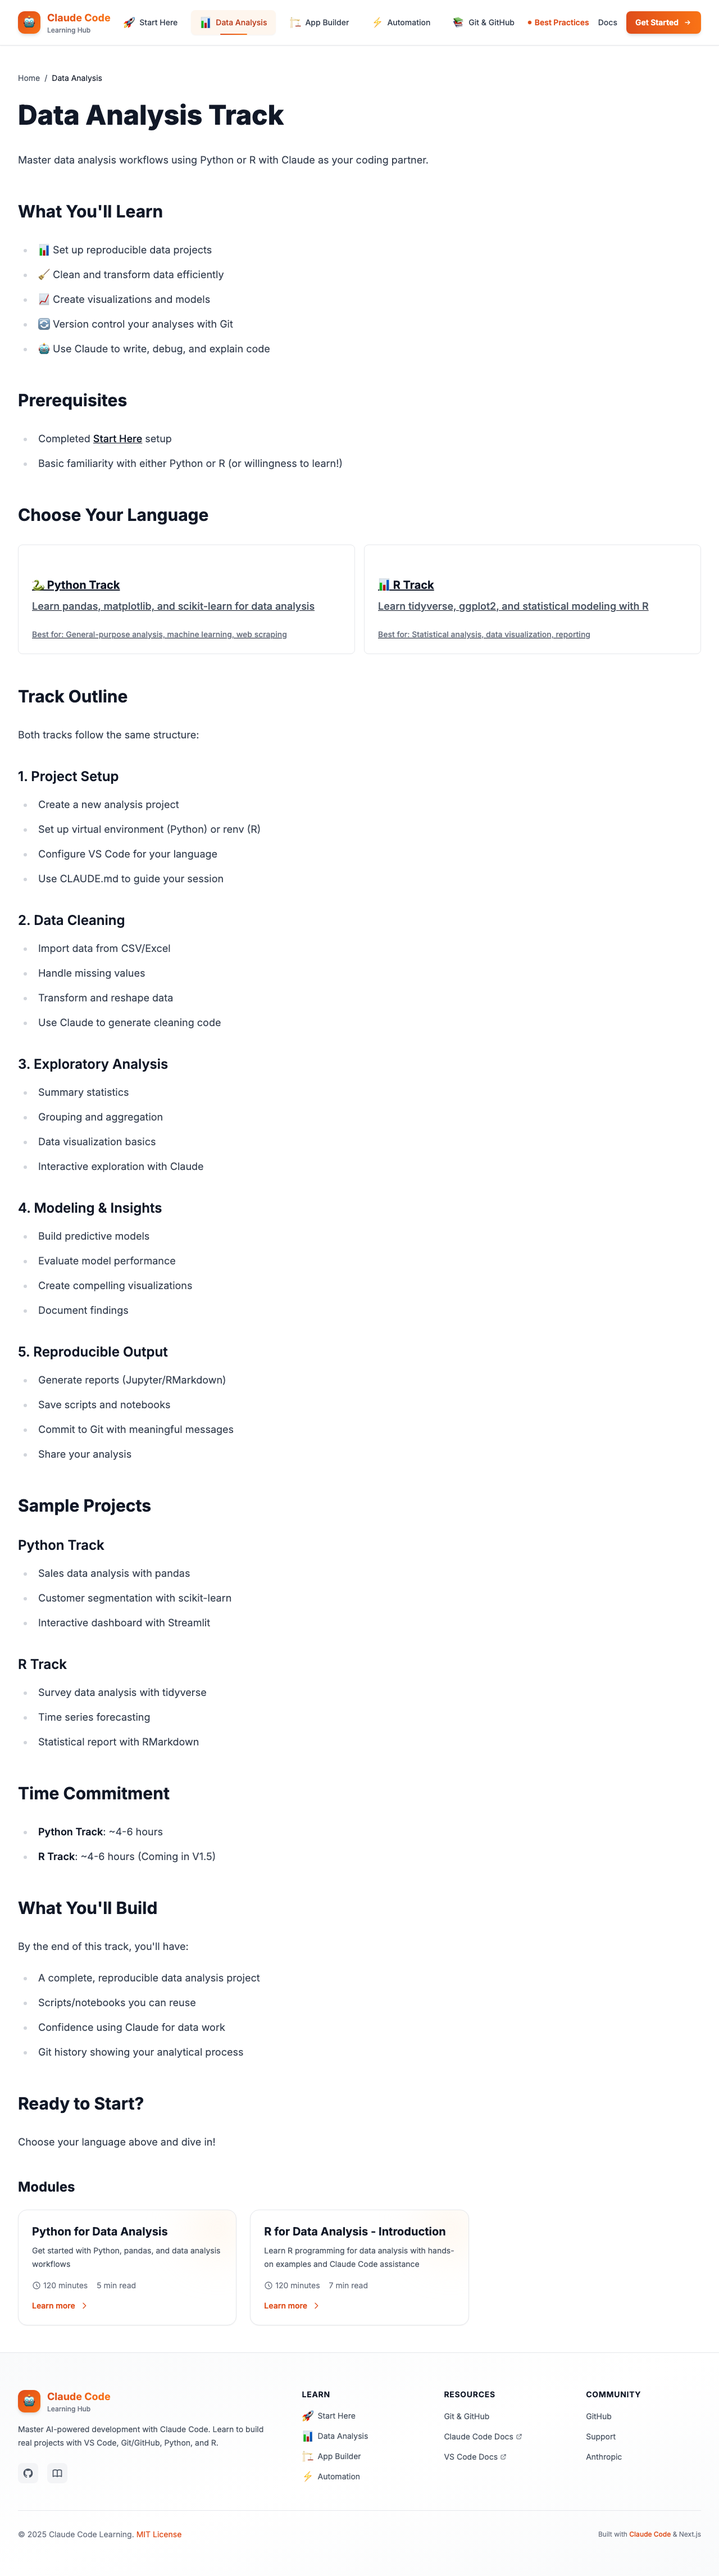
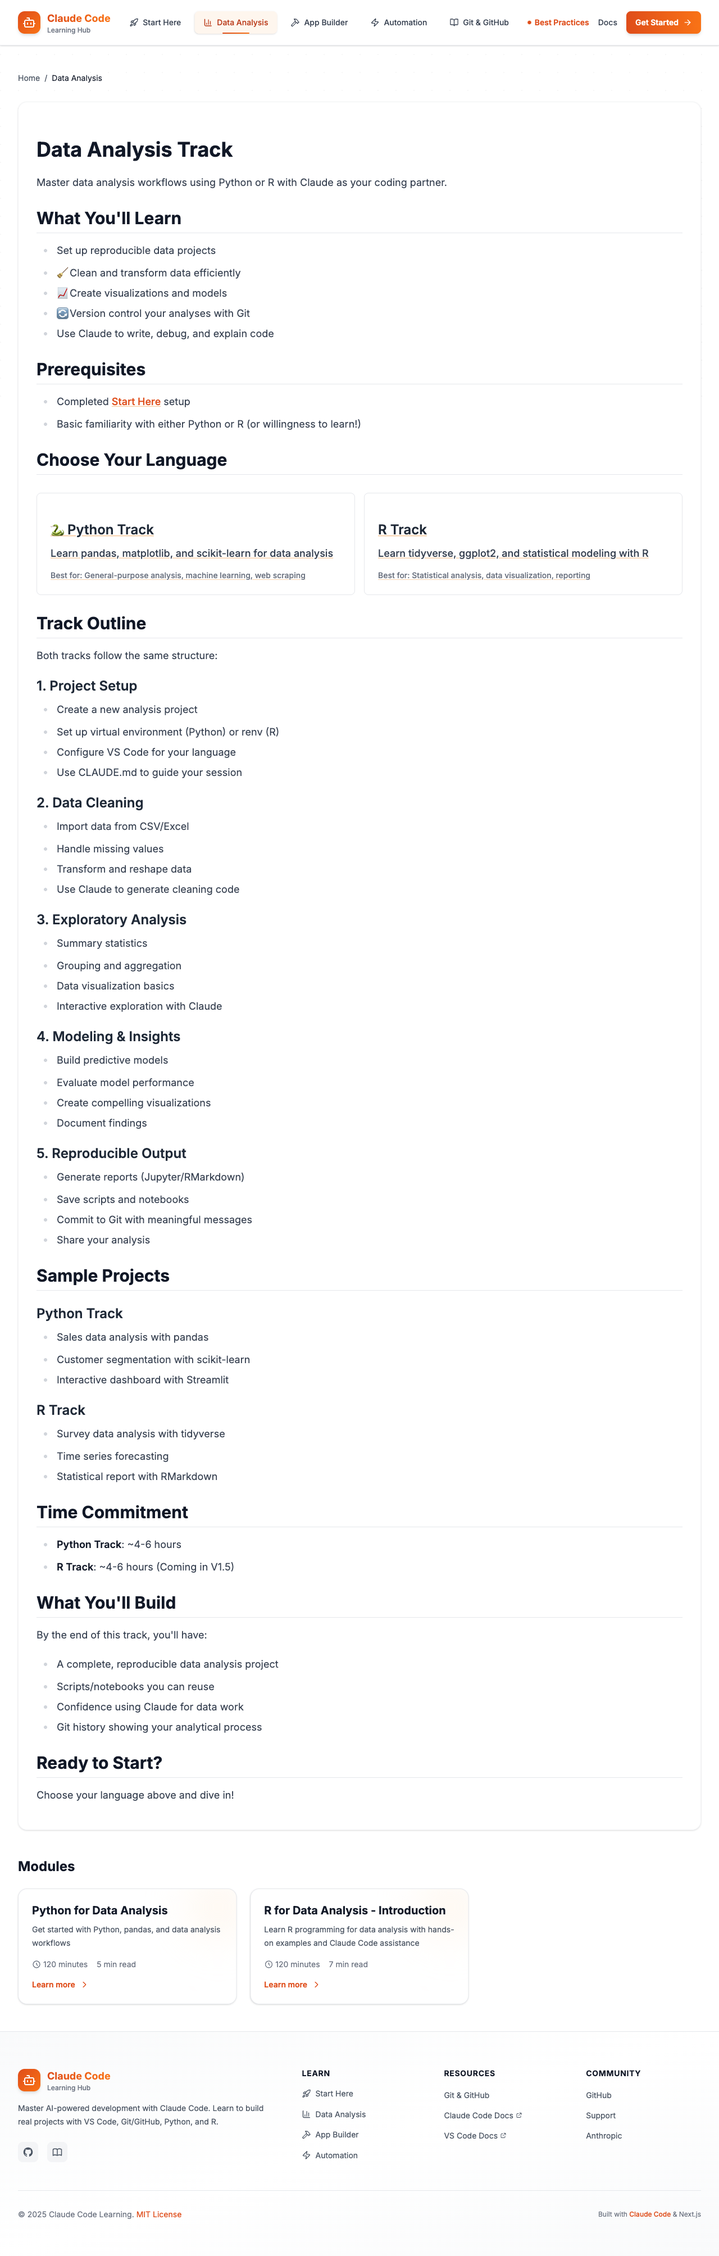
fix: Remove remaining emojis from data-analysis page

diff --git a/playwright-report/index.html b/playwright-report/index.html
@@ -82,4 +82,4 @@ Error generating stack: `+n.message+`
     <div id='root'></div>
   </body>
 </html>
[2 lines of base64/hex data omitted]

diff --git a/tests/find-emojis.spec.ts b/tests/find-emojis.spec.ts
@@ -1,0 +1,69 @@
+import { test, expect } from '@playwright/test'
+
+const emojiRegex = /[\u{1F300}-\u{1F9FF}\u{2600}-\u{26FF}\u{2700}-\u{27BF}]/gu
+
+test('Find emojis on data-analysis page', async ({ page }) => {
+  await page.goto('http://localhost:3001/data-analysis')
+
+  // Get all text content from the page
+  const bodyText = await page.locator('body').innerText()
+
+  // Find all emojis
+  const emojis = bodyText.match(emojiRegex) || []
+
+  console.log('\n=== EMOJIS FOUND ON /data-analysis ===')
+  console.log('Total emojis found:', emojis.length)
+
+  if (emojis.length > 0) {
+    console.log('Emojis:', [...new Set(emojis)].join(', '))
+
+    // Get the context around each emoji
+    const lines = bodyText.split('\n')
+    const emojiLines: string[] = []
+
+    lines.forEach((line, index) => {
+      if (emojiRegex.test(line)) {
+        emojiLines.push(`Line ${index + 1}: ${line.trim()}`)
+      }
+    })
+
+    console.log('\nLines with emojis:')
+    emojiLines.forEach(line => console.log(line))
+  } else {
+    console.log('No emojis found! ✨')
+  }
+
+  // Take a screenshot
+  await page.screenshot({ path: 'tests/screenshots/data-analysis-emojis.png', fullPage: true })
+  console.log('\nScreenshot saved to: tests/screenshots/data-analysis-emojis.png')
+})
+
+test('Find emojis in page HTML', async ({ page }) => {
+  await page.goto('http://localhost:3001/data-analysis')
+
+  // Get the full HTML
+  const html = await page.content()
+
+  // Find emojis in HTML
+  const emojis = html.match(emojiRegex) || []
+
+  console.log('\n=== EMOJIS IN HTML ===')
+  console.log('Total emojis in HTML:', emojis.length)
+
+  if (emojis.length > 0) {
+    console.log('Unique emojis:', [...new Set(emojis)].join(', '))
+
+    // Find the HTML snippets containing emojis
+    const snippets: string[] = []
+    const htmlLines = html.split('\n')
+
+    htmlLines.forEach((line, index) => {
+      if (emojiRegex.test(line)) {
+        snippets.push(`Line ${index + 1}: ${line.trim().substring(0, 100)}...`)
+      }
+    })
+
+    console.log('\nHTML snippets with emojis (first 100 chars):')
+    snippets.slice(0, 10).forEach(snippet => console.log(snippet))
+  }
+})
